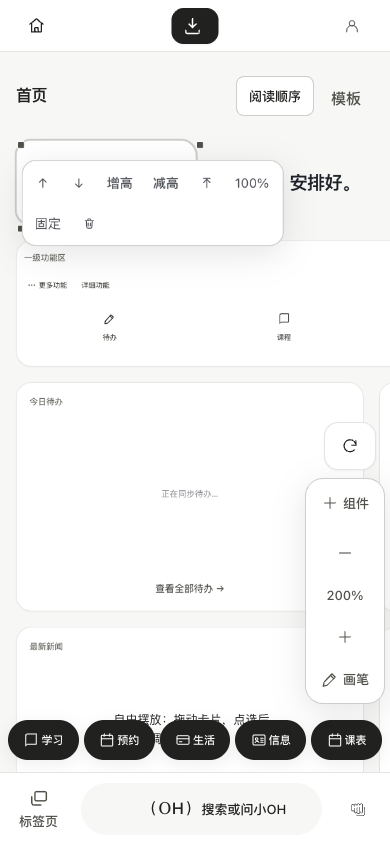
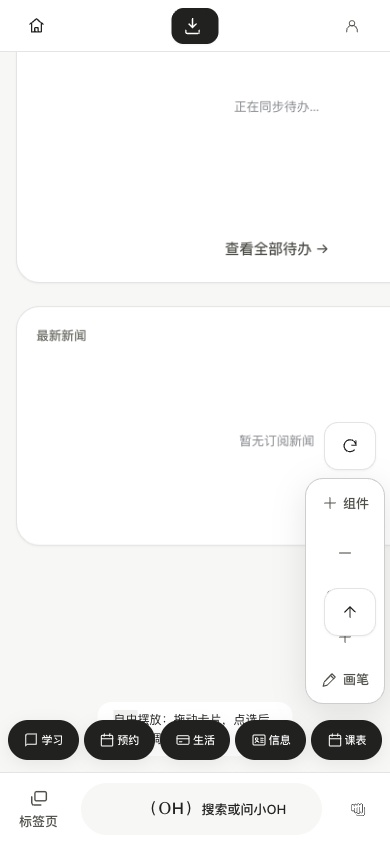
fix(mobile): 自由摆放默认 300%、横屏=电脑画布、删除双击建便笺
用户三点：
- 「自由摆放太小气，按照你这个算是不是得 300%」→ 默认 setZoom(3)，缩放梯子扩到 400%；
- 「手机横屏直接切换成和电脑一模一样视图」→ 横屏不再堆叠：按世界坐标自由画布，
  不出现「阅读顺序」开关，与电脑共用视图/缩放；手机竖屏仍保留阅读顺序默认。
- 「很多地方双击创建便笺是什么毛病，删了这个 feature」→ 删除画布空白双击建便笺；
  便笺/文字双击就地编辑保留。

实现细节：
- `boardView.ts`：ZOOM_MAX 2.5→4，ZOOM_STEPS 增加 3、4；
- FreeBoard：`landscape` 状态（resize 监听）+ `phonePortrait`；手机竖屏视图拆独立 key
  （`boardId|orientation|phone`），300% 不会把电脑首页一起放大；横屏与电脑共用视图；
- 自由摆放持久化恢复时若视图仍 <250% 首进补到 300%；
- 删除 `.freeboard` 的 onDoubleClick 建便笺（含头注释同步）。

测试：phone-board 19 条（新增 300%、双击不建便笺、横屏自由画布/无开关/世界坐标不堆叠）；
phone-oh 静态守卫补「无 addNote 双击 / 300% / 横屏」断言；pnpm guard 全绿、feedback 55 项通过。
截图：phone-board-free.png / phone-board-free-300.png / phone-board-landscape.png。

diff --git a/apps/desktop/src/components/FreeBoard.tsx b/apps/desktop/src/components/FreeBoard.tsx
@@ -13,8 +13,8 @@ import { useIsSimpleLike } from "../state/experienceMode.js";
  *   - 点选：浮出迷你条（置顶 / 折叠（便笺）/ 透明度 / 固定 / 删除），Delete 删、Esc 取消、方向键微调；
  *   - 图层：选中/拖动即浮到与自己重叠的那簇之上；数组序 = 图层序，后放的在上；
  *   - 右键 / 长按组件：七项菜单（选择条目 / 改变大小 / 编辑 / 固定 / 置顶 / 详情 / 删除）；
- *   - 右键空白 / 「＋」浮钮：添加组件（放在指针处）；双击空白：快速建便笺；
- *   - 双击便笺或文字：就地编辑；画笔恒在最高图层（z 90），RGB 取色 + 撤销/清空。
+ *   - 右键空白 / 「＋」浮钮：添加组件（放在指针处）；（双击空白建便笺已按用户要求删除）
+ *   - 双击便笺或文字：就地编辑（双击空白不再创建便笺）；画笔恒在最高图层（z 90），RGB 取色 + 撤销/清空。
  *
  * 组件体走 WidgetHost（与旧白板页同一套渲染语义：divider / 文字 / 跳转 / 原子入口 / 卡片 /
  * 自定义 + 降级壳），渲染器 = 白板自足实现 + 各页面发布的卡体 + 活数据三层合并
@@ -334,7 +334,17 @@ export function FreeBoard({ boardId = HOME_BOARD_ID, orientation = HOME_ORIENTAT
   /* ── 无限画布的视口（2026-10-15 模型纠正）──
      画布自创建起就没有边界：内容在世界坐标里，这里只管"看哪一块"。视图按「板+朝向」记，
      存在 onethu.boardview.v1（视图不是文档，见 state/boardView.ts 的口径）。 */
-  const viewKey = boardViewKey(boardId, orientation);
+  const phoneUi = useIsPhone();
+  /** 横屏手机（宽 > 高，且是手机）：直接按电脑画布来，不堆叠。 */
+  const [landscape, setLandscape] = useState<boolean>(() => typeof window !== "undefined" && window.innerWidth > window.innerHeight);
+  useEffect(() => {
+    const on = (): void => setLandscape(window.innerWidth > window.innerHeight);
+    window.addEventListener("resize", on);
+    return () => window.removeEventListener("resize", on);
+  }, []);
+  const phonePortrait = phoneUi && !landscape;
+  /* 手机竖屏的缩放单独一份（自由摆放默认 300%，不能把电脑首页也跟着放大）；横屏与电脑共用视图。 */
+  const viewKey = boardViewKey(boardId, orientation) + (phonePortrait ? "|phone" : "");
   const view = useSyncExternalStore(subscribeView, () => readBoardView(viewKey), () => readBoardView(viewKey));
   const viewRef = useRef<BoardView>(view);
   viewRef.current = view;
@@ -355,7 +365,7 @@ export function FreeBoard({ boardId = HOME_BOARD_ID, orientation = HOME_ORIENTAT
       const next = !prev;
       try { localStorage.setItem(PHONE_CANVAS_KEY, next ? "1" : "0"); } catch { /* 配额满：仅本次生效 */ }
       if (next) {
-        setZoom(2);
+        setZoom(3);
         window.setTimeout(() => sayRef.current("自由摆放：拖动卡片，点选后拉角点调大小"), 30);
       } else {
         sayRef.current("已回到阅读顺序");
@@ -364,6 +374,8 @@ export function FreeBoard({ boardId = HOME_BOARD_ID, orientation = HOME_ORIENTAT
     });
   }, []);
   const sayRef = useRef<(text: string) => void>(() => undefined);
+  /** 持久化恢复自由摆放时视图可能还是旧的 100%：首进补到 300%。 */
+  const zoomBooted = useRef(false);
   const [selected, setSelected] = useState<string | null>(null);
   const [penOn, setPenOn] = useState(false);
   const [penColor, setPenColor] = useState<string>(PEN_COLORS[0]);
@@ -405,8 +417,7 @@ export function FreeBoard({ boardId = HOME_BOARD_ID, orientation = HOME_ORIENTAT
      这里只改**渲染坐标**：按阅读顺序（先 y 后 x）从 0 起单列铺开，宽度吃满端口、高度沿用条目
      自己存的高度，间距 12；**存下来的摆位一个字节不动**——横屏与桌面照旧是那块自由画布。
      桌面与手机共用同一块世界坐标；手机竖屏只是把渲染排成阅读顺序，选中后在浮条里上下移/增减高。 */
-  const phoneUi = useIsPhone();
-  const stack = phoneUi && orientation === "portrait" && !penOn && !phoneCanvas;
+  const stack = phonePortrait && orientation === "portrait" && !penOn && !phoneCanvas;
   const needsPenCanvas = !stack && (penOn || penStrokes.length > 0);
   // Both layouts share stored world geometry; phone browsing projects a reading order.
   const stackTop = 0;
@@ -575,6 +586,11 @@ export function FreeBoard({ boardId = HOME_BOARD_ID, orientation = HOME_ORIENTAT
   const resetView = useCallback((): void => {
     setZoomRef.current(1);
   }, []);
+  useEffect(() => {
+    if (zoomBooted.current) return;
+    zoomBooted.current = true;
+    if (phonePortrait && phoneCanvas && viewRef.current.z < 2.5) setZoomRef.current(3);
+  }, [phonePortrait, phoneCanvas]);
 
   useCanvasProbeImpl(viewKey, hostRef); // 临时探针（仅 dev）：定时上报，见函数头注释
 
@@ -833,7 +849,10 @@ export function FreeBoard({ boardId = HOME_BOARD_ID, orientation = HOME_ORIENTAT
   );
 
   return (
-    <div className={"freeboard-wrap" + (phoneCanvas && phoneUi ? " phone-canvas" : "")} data-coach="home-canvas">
+    <div
+      className={"freeboard-wrap" + (phoneUi && (phoneCanvas || landscape) ? " phone-canvas" : "")}
+      data-coach="home-canvas"
+    >
       {chrome ? (
         <PageHead
           title={chrome.title}
@@ -841,7 +860,7 @@ export function FreeBoard({ boardId = HOME_BOARD_ID, orientation = HOME_ORIENTAT
           menu={[
             { key: "add-widget", label: "添加组件", onSelect: () => setAddOpen(true) },
             { key: "apply-tpl", label: "套用模板", onSelect: () => setTplOpen(true) },
-            ...(phoneUi && orientation === "portrait" && !compact
+            ...(phonePortrait && orientation === "portrait" && !compact
               ? [{ key: "phone-canvas", label: phoneCanvas ? "阅读顺序" : "自由摆放", onSelect: togglePhoneCanvas }]
               : []),
             { key: "pen", label: penOn ? "画笔：关" : "画笔：开", onSelect: () => setPenOn((v) => !v) },
@@ -856,7 +875,7 @@ export function FreeBoard({ boardId = HOME_BOARD_ID, orientation = HOME_ORIENTAT
             <span>{stack ? "阅读顺序：点右侧「自由摆放」可拖动、缩放" : "拖动卡片摆放，选中后拖动边角调整大小"}</span>
           </div>
           <div className="workbench-board-actions">
-            {phoneUi && orientation === "portrait" && !compact ? (
+            {phonePortrait && orientation === "portrait" && !compact ? (
               <Btn variant="outline" size="sm" aria-pressed={phoneCanvas} onClick={togglePhoneCanvas}>
                 {phoneCanvas ? "阅读顺序" : "自由摆放"}
               </Btn>
@@ -884,11 +903,6 @@ export function FreeBoard({ boardId = HOME_BOARD_ID, orientation = HOME_ORIENTAT
         onPointerDown={(e) => {
           /* 画布空白（含世界层）按下 = 取消选中；组件自身的按下不走这里。 */
           if (!(e.target as HTMLElement).closest(".free-item")) setSelected(null);
-        }}
-        onDoubleClick={(e) => {
-          if ((e.target as HTMLElement).closest(".free-item")) return;
-          const p = canvasPos(e.clientX, e.clientY);
-          ops.addNote(Math.max(0, p.x - 110), Math.max(0, p.y - 80));
         }}
         onContextMenu={(e) => {
           if ((e.target as HTMLElement).closest(".free-item")) return;

diff --git a/apps/desktop/src/state/boardView.ts b/apps/desktop/src/state/boardView.ts
@@ -23,11 +23,11 @@ export interface BoardView {
 }
 
 export const ZOOM_MIN = 0.4;
-export const ZOOM_MAX = 2.5;
+export const ZOOM_MAX = 4;
 export const ZOOM_DEFAULT = 1;
 
 /** 「＋/－」按钮走的档位（捏合是连续的，不吸附到它）。 */
-export const ZOOM_STEPS: readonly number[] = [0.4, 0.5, 0.65, 0.8, 1, 1.25, 1.5, 2, 2.5];
+export const ZOOM_STEPS: readonly number[] = [0.4, 0.5, 0.65, 0.8, 1, 1.25, 1.5, 2, 2.5, 3, 4];
 
 export const DEFAULT_VIEW: BoardView = { z: ZOOM_DEFAULT };
 
